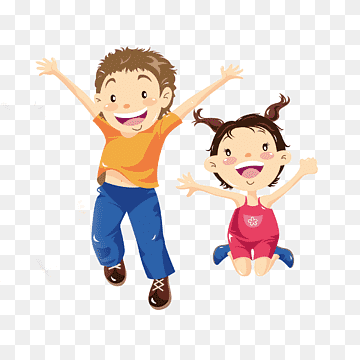
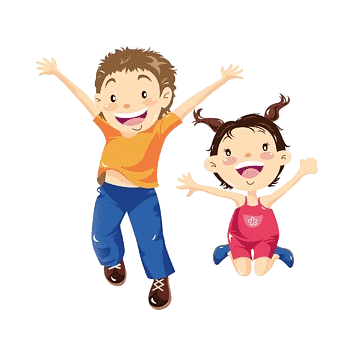
completed

diff --git a/src/pages/Details.jsx b/src/pages/Details.jsx
@@ -24,40 +24,42 @@ function Details() {
   return (
     <>
     
-<Container className='mt-5'>
-<h3 className='text-center'>Student Details</h3>
-    <Table striped bordered hover>
-          <thead >
-            <tr >
-              <th className='bg-info'>#</th>
-              <th className='bg-info'>Name</th>
-              <th className='bg-info'>Address</th>
-              <th className='bg-info'>Mobile</th>
-              <th className='bg-info'>Email</th>
-              <th className='bg-info'>Gender</th>
-              <th className='bg-info'>Date of Birth</th>
-              <th className='bg-info'>Course</th>
-            </tr>
-          </thead>
-          <tbody>
-            {allstudents?.length>0?allstudents.map((student, index)=>(
-              <tr>
-              <td>{index+1}</td>
-              <td>{student.name}</td>
-              <td>{student.address}</td>
-              <td>{student.mobile}</td>
-              <td>{student.email}</td>
-              <td>{student.gender}</td>
-              <td>{student.dob}</td>
-              <td>{student.course}</td>
-            </tr>
-            ))
-              : <div>Nothing to display</div>
-            }
-          </tbody>
-        </Table>
-        <Link to={'/register'}><button className='btn btn-info'>Back</button></Link>
-</Container>
+<div style={{height:'100vh', padding:'25px'}} className='bg-warning'>
+  <Container >
+  <h3 className='text-center'>Student Details</h3>
+      <Table striped bordered hover>
+            <thead >
+              <tr >
+                <th className='bg-info'>#</th>
+                <th className='bg-info'>Name</th>
+                <th className='bg-info'>Address</th>
+                <th className='bg-info'>Mobile</th>
+                <th className='bg-info'>Email</th>
+                <th className='bg-info'>Gender</th>
+                <th className='bg-info'>Date of Birth</th>
+                <th className='bg-info'>Course</th>
+              </tr>
+            </thead>
+            <tbody>
+              {allstudents?.length>0?allstudents.map((student, index)=>(
+                <tr>
+                <td>{index+1}</td>
+                <td>{student.name}</td>
+                <td>{student.address}</td>
+                <td>{student.mobile}</td>
+                <td>{student.email}</td>
+                <td>{student.gender}</td>
+                <td>{student.dob}</td>
+                <td>{student.course}</td>
+              </tr>
+              ))
+                : <div>Nothing to display</div>
+              }
+            </tbody>
+          </Table>
+          <Link to={'/register'}><button className='btn btn-info'>Back</button></Link>
+  </Container>
+</div>
 
 
 

diff --git a/src/components/Header.jsx b/src/components/Header.jsx
@@ -1,4 +1,9 @@
 import React from 'react'
+import Container from 'react-bootstrap/Container';
+import Nav from 'react-bootstrap/Nav';
+import Navbar from 'react-bootstrap/Navbar';
+import NavDropdown from 'react-bootstrap/NavDropdown';
+import { Link } from 'react-router-dom';
 
 
 
@@ -7,7 +12,20 @@ import React from 'react'
 
 function Header() {
   return (
-    <div>Header</div>
+    <div style={{position:'absolute', width:'100%'}}>
+      <Navbar expand="lg" className="bg-primary">
+      <Container>
+        <Link to={'/'} style={{textDecoration:'none'}}><Navbar.Brand href="">EDUCATION</Navbar.Brand></Link>
+        <Navbar.Toggle aria-controls="basic-navbar-nav" />
+        <Navbar.Collapse id="basic-navbar-nav">
+          <Nav className="me-auto">
+            <Nav.Link><Link style={{color:'black', textDecoration:'none'}} to={'/register'}>Register</Link></Nav.Link>
+            <Nav.Link><Link style={{color:'black', textDecoration:'none'}} to={'/details'}>Student Details</Link></Nav.Link>
+          </Nav>
+        </Navbar.Collapse>
+      </Container>
+    </Navbar>
+    </div>
   )
 }
 

diff --git a/src/pages/Register.jsx b/src/pages/Register.jsx
@@ -6,6 +6,7 @@ import { Link, useNavigate } from 'react-router-dom'
 
 import students from '../assets/students.png'
 import { registerAPI } from '../../services/allAPIs'
+import Header from '../components/Header'
 
 
 function Register() {
@@ -41,6 +42,7 @@ function Register() {
 
   return (
     <>
+    <Header></Header>
       <div style={{ height: '100vh' }} className='bg-warning d-flex justify-content-center align-items-center'>
         <div className='row w-100 d-flex justify-content-center align-items-center'>
           <Col style={{ padding: '10%' }} lg={4}>

diff --git a/src/pages/Home.jsx b/src/pages/Home.jsx
@@ -5,11 +5,13 @@ import { Link } from 'react-router-dom'
 
 
 
-import image from '../assets/images.jpeg'
+import image from '../assets/images.png'
+import Header from '../components/Header'
 
 function Home() {
   return (
     <>
+    <Header></Header>
     <div style={{ height: '100vh' }} className='bg-warning d-flex justify-content-center align-items-center'>
         <div className='row w-100'>
         <Col style={{padding:'10%'}} lg={6}>

diff --git a/src/index.css b/src/index.css
@@ -3,3 +3,7 @@
   padding: 0;
   box-sizing: border-box;
 }
+
+
+
+
